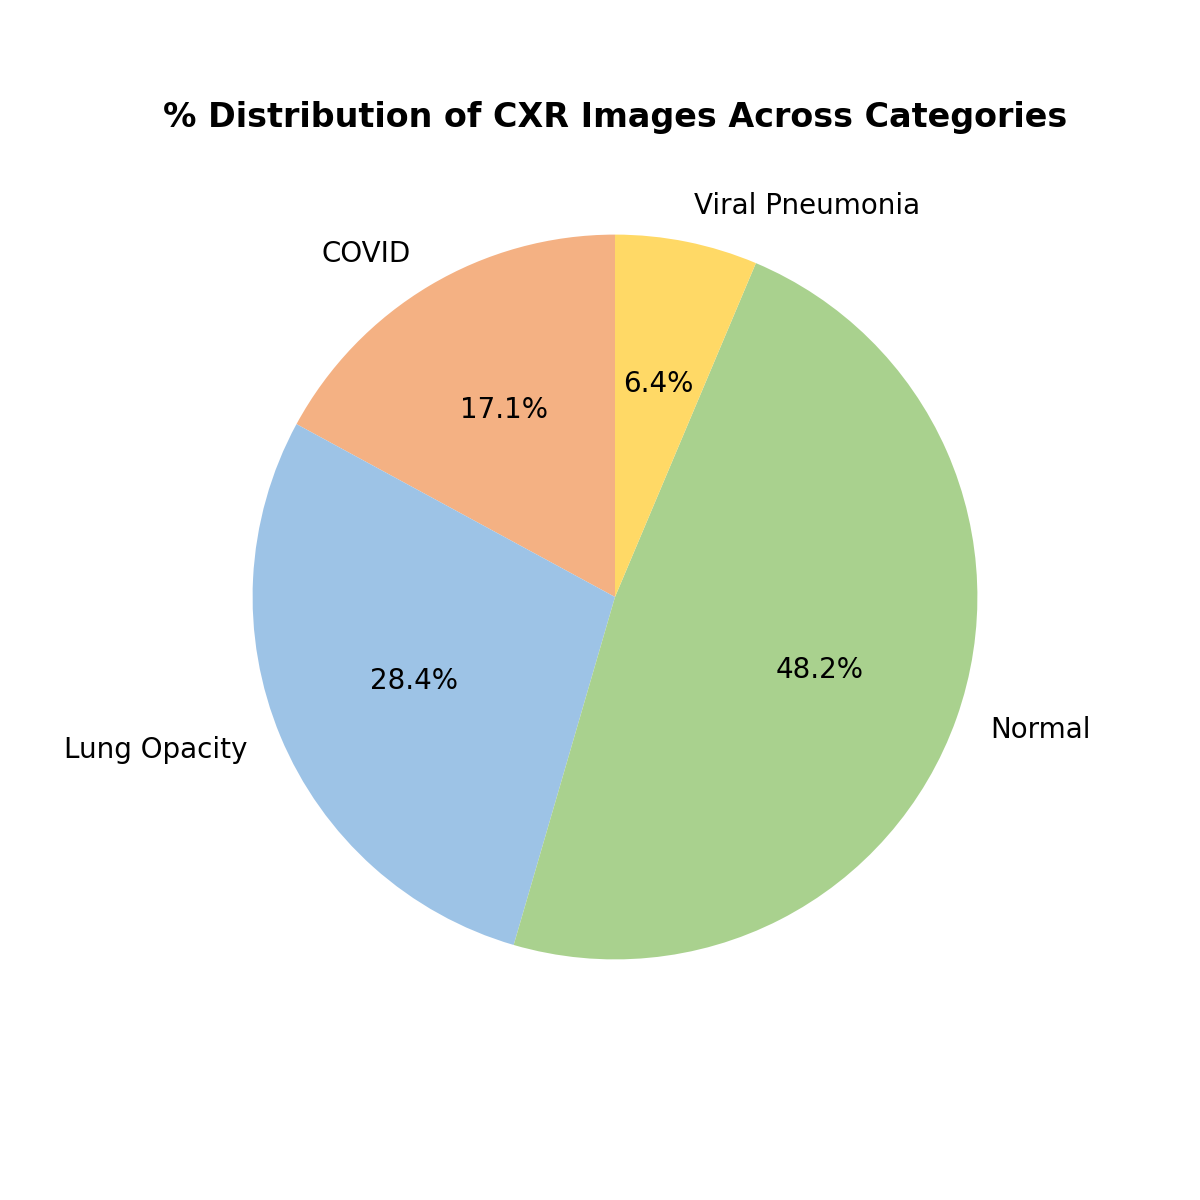
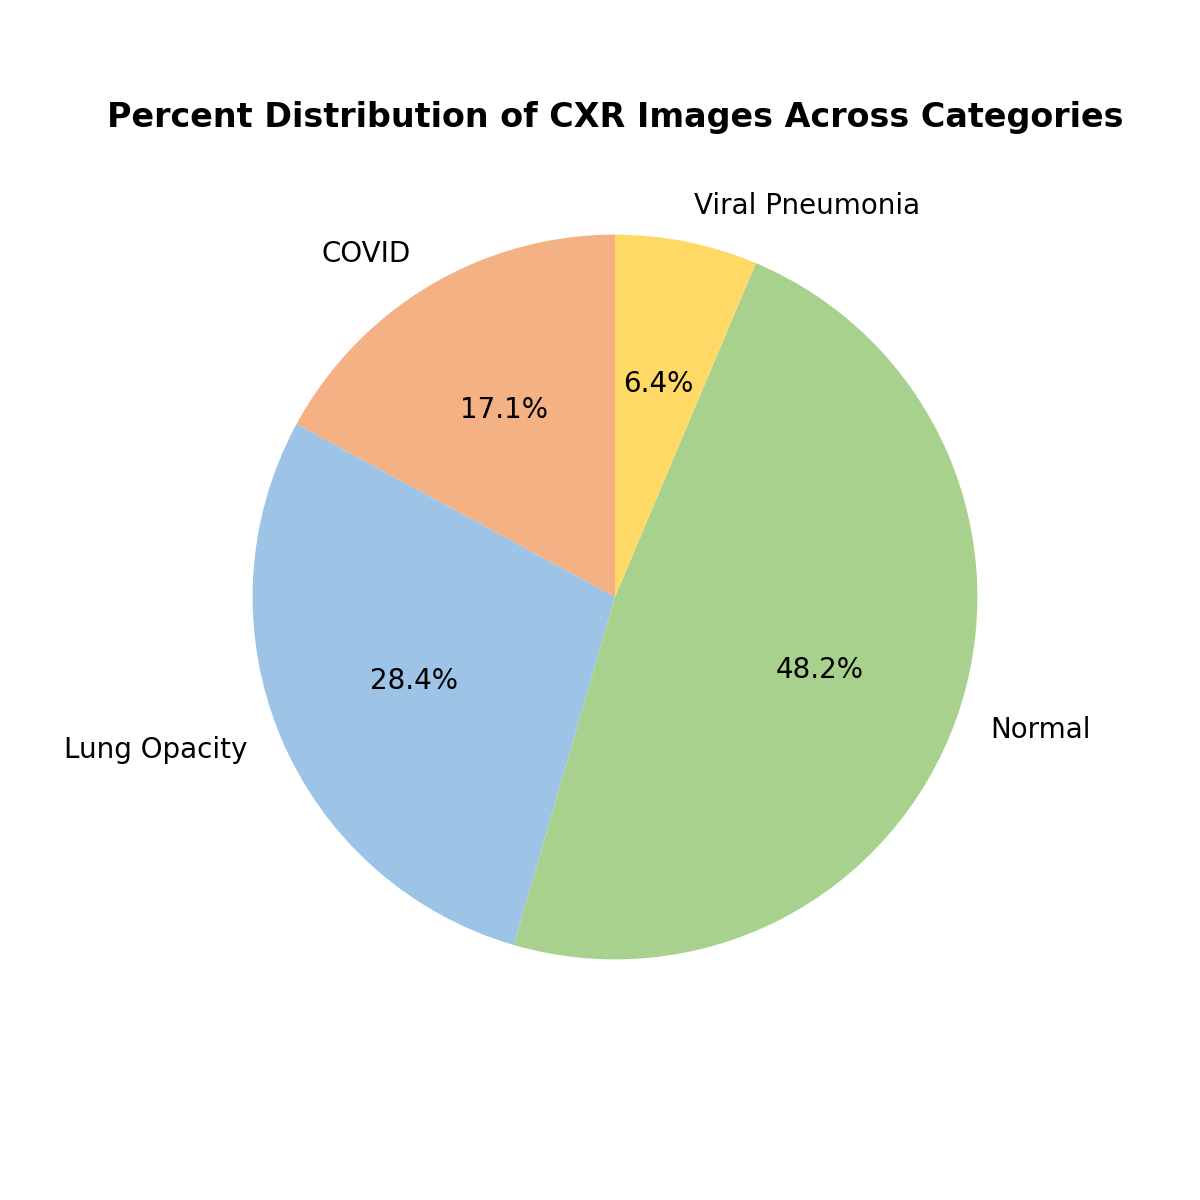
Change pie chart heading

Changed region(s): [[0.0925, 0.0617, 0.9558, 0.1233]]

diff --git a/README.md b/README.md
@@ -117,6 +117,6 @@ Third party / library specific imports: matplotlib, numpy, IPython, PIL, sklearn
 
 ## Credits
 
-- https://www.kaggle.com/datasets/tawsifurrahman/covid19-radiography-database)
+- https://www.kaggle.com/datasets/tawsifurrahman/covid19-radiography-database
 - https://arxiv.org/pdf/1608.06993.pdf
 
